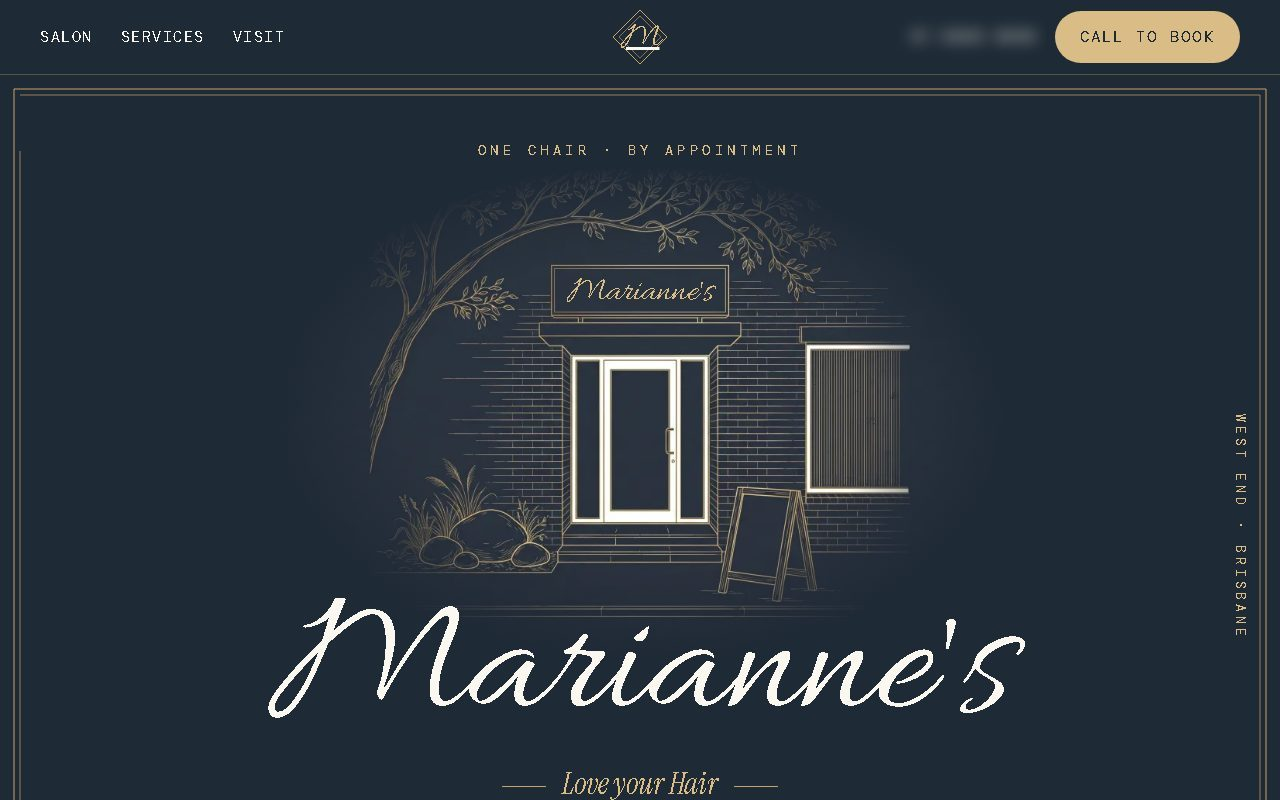
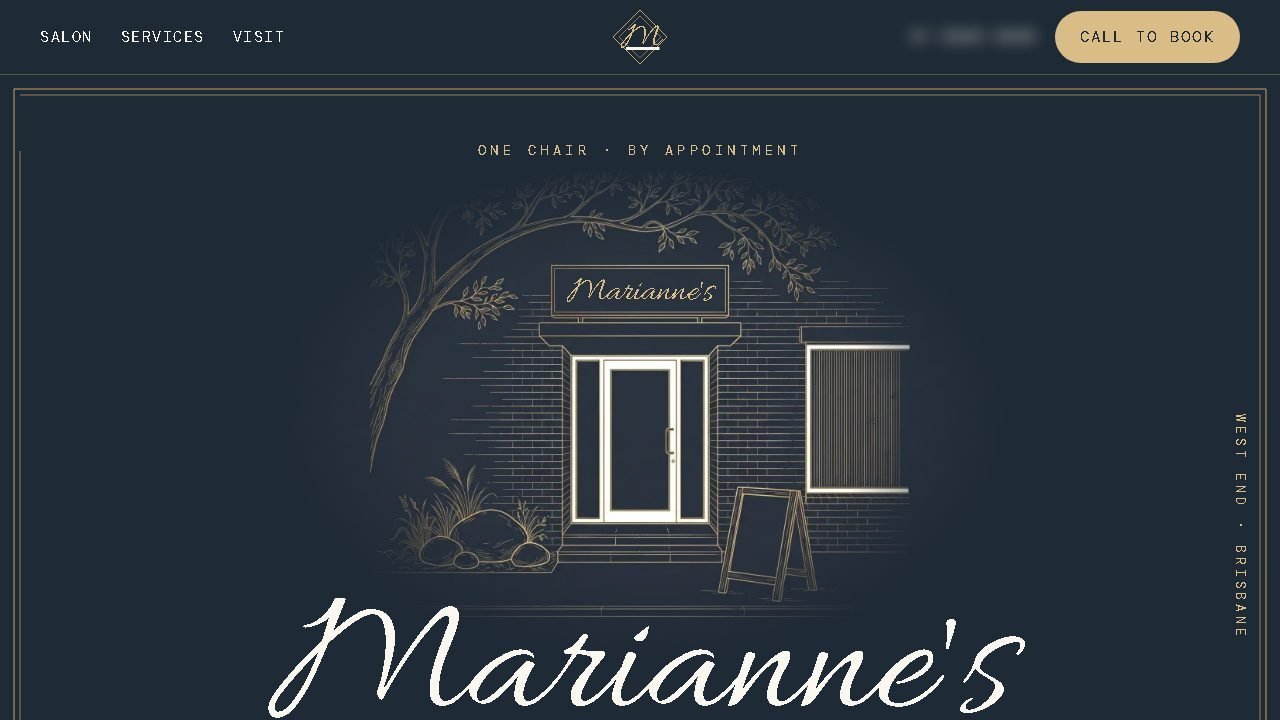
Make the monitor and its reel 16:9, the shape of a full-screen capture, starting with three shots at 1280x720
Claude-Session: https://claude.ai/code/session_01Jjx85kn9FwW2aWf7yaVbPn

diff --git a/content/screens.ts b/content/screens.ts
@@ -37,7 +37,7 @@ export const slides: Slide[] = [
   {
     label: "Marianne's Hair · site",
     line: "A one-chair salon in West End. Its site's nearly ready to open.",
-    shot: { src: "/reel/mariannes-hair-site.jpg", alt: "Marianne's Hair's home page: a line drawing of the salon's shopfront above the name, \"Love your Hair\"" },
+    shot: { src: "/reel/mariannes-hair-site.jpg", alt: "Marianne's Hair's home page: a line drawing of the salon's shopfront above its name in script" },
   },
   // Not in the crate yet: it becomes a slug slide (See the case study) once it has a record.
   {

diff --git a/docs/superpowers/specs/2026-10-02-office-interactions-design.md b/docs/superpowers/specs/2026-10-02-office-interactions-design.md
@@ -10,7 +10,8 @@
   isn't working". The monitor now shows previews of the crate's projects (section 3.5), the sticky notes fall off it onto
   the desk while it's open, and the laptop beside it shows the next preview, dragged across onto the monitor.
 - **Amended again 2026-10-05** (Kasper, after the whiteboard preview): the screenshot squeezed into a window on the
-  monitor had the wrong aspect. The monitor's screen becomes 16:10 and shows the screenshot edge to edge; the words and
+  monitor had the wrong aspect. The monitor's screen becomes 16:9 (Kasper, same day: "isn't 16:9 the usual ratio"; a
+  full-screen capture is 1920 x 1080) and shows the screenshot edge to edge; the words and
   controls move to the laptop (section 3.5).
 
 ## 1. Goal
@@ -129,7 +130,7 @@ Amended 2026-10-05. The age-check joke built in M3 is removed: Kasper found it r
    settles flat and slightly askew at its own landing spot on the desk. All are down within ~0.9 s, before the camera
    arrives (~1.1 s), so the whole screen is clear.
 2. **The reel:** the monitor shows one screenshot at a time, **edge to edge**: no window, title bar or caption on it.
-   Amended 2026-10-05 (Kasper): the monitor's screen is 16:10 like the screenshots (1280 x 800), so nothing is cropped
+   Amended 2026-10-05 (Kasper): the monitor's screen is 16:9 like the screenshots (1280 x 720, captured full screen), so nothing is cropped
    or letterboxed. One slide per screenshot, not per project; a project can have several (Manuva's site and app). The
    order is Pac Hub, Manuva (site, bill of materials, components), Silio, Marianne's Hair, then the Pac Technologies
    site. Pac Hub's screenshot is blurred where it shows a customer, a job or people's names; Marianne's Hair's phone
@@ -157,7 +158,7 @@ Amended 2026-10-05. The age-check joke built in M3 is removed: Kasper found it r
    on the bezel otherwise; ‹ › switch the screenshot and the words at once.
 9. **Accessibility:** the visually hidden heading that takes focus as the monitor opens is with the laptop's controls;
    each screenshot keeps its alt text, read with its label.
-10. **Model:** the monitor's screen (and its bezel) is 16:10, keeping its width; the stand and the sticky notes' bezel
+10. **Model:** the monitor's screen (and its bezel) is 16:9, keeping its width; the stand and the sticky notes' bezel
     spots move to suit. The focus cameras frame the monitor and the laptop on desktop, and the monitor across the width
     with room for the strip under it on phones.
 
